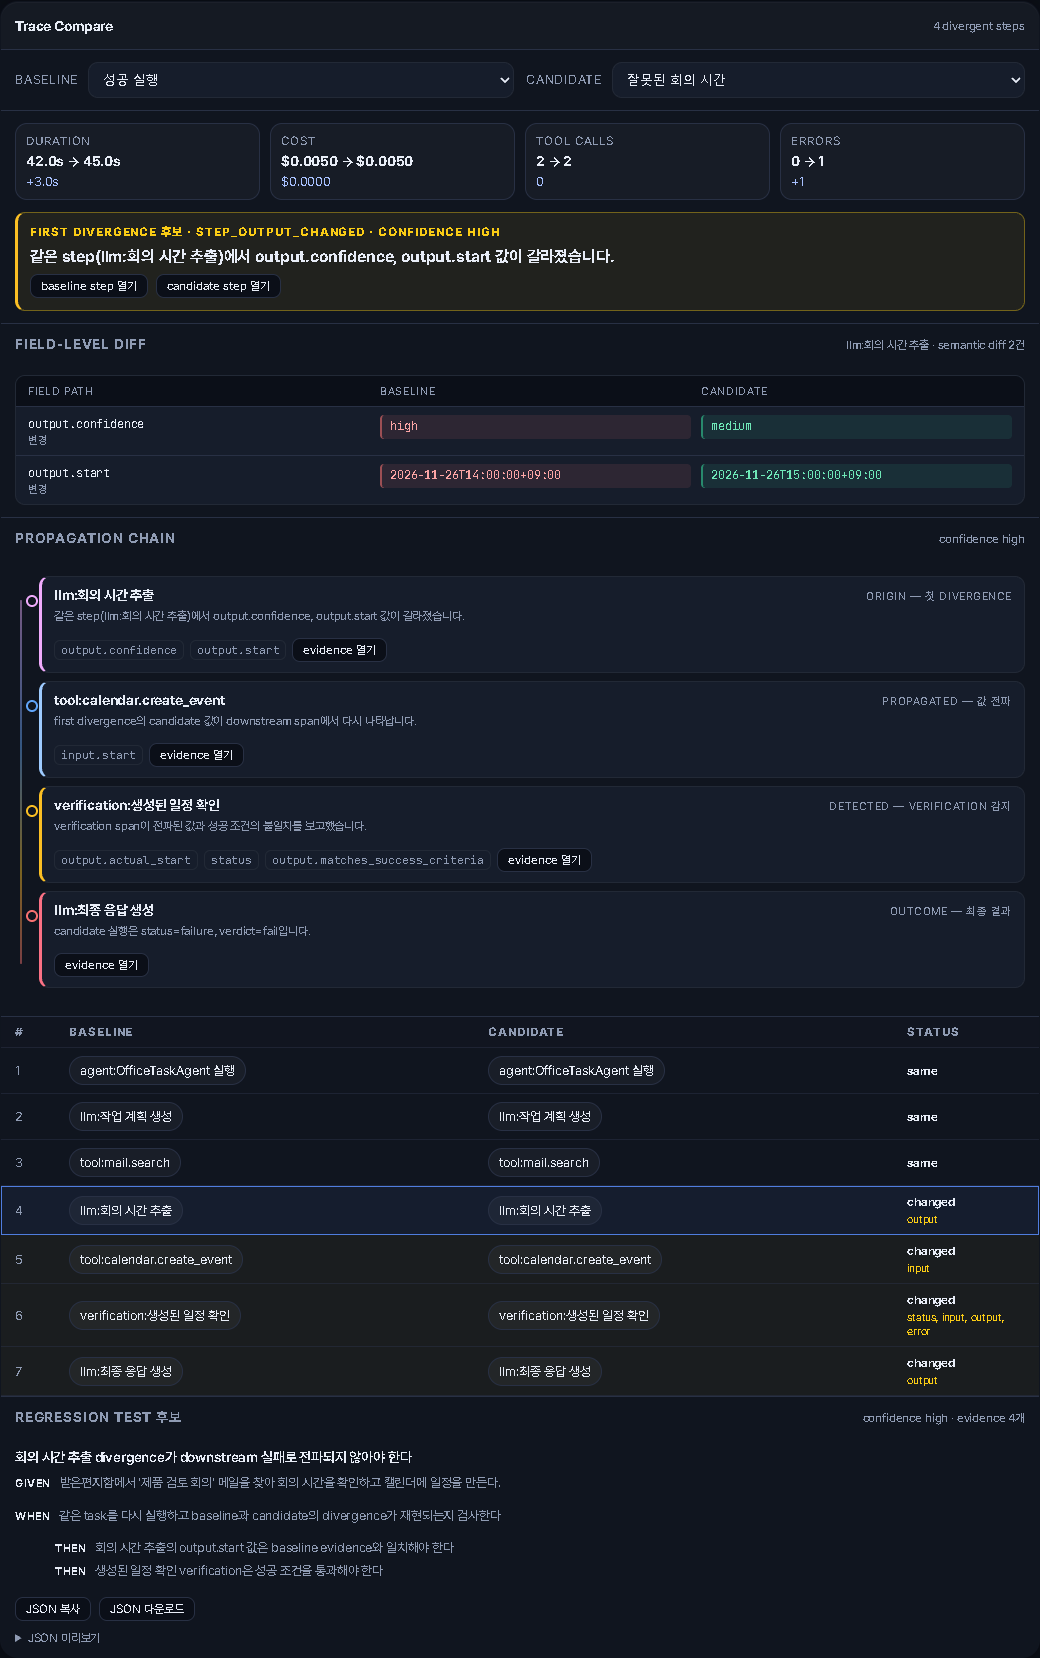
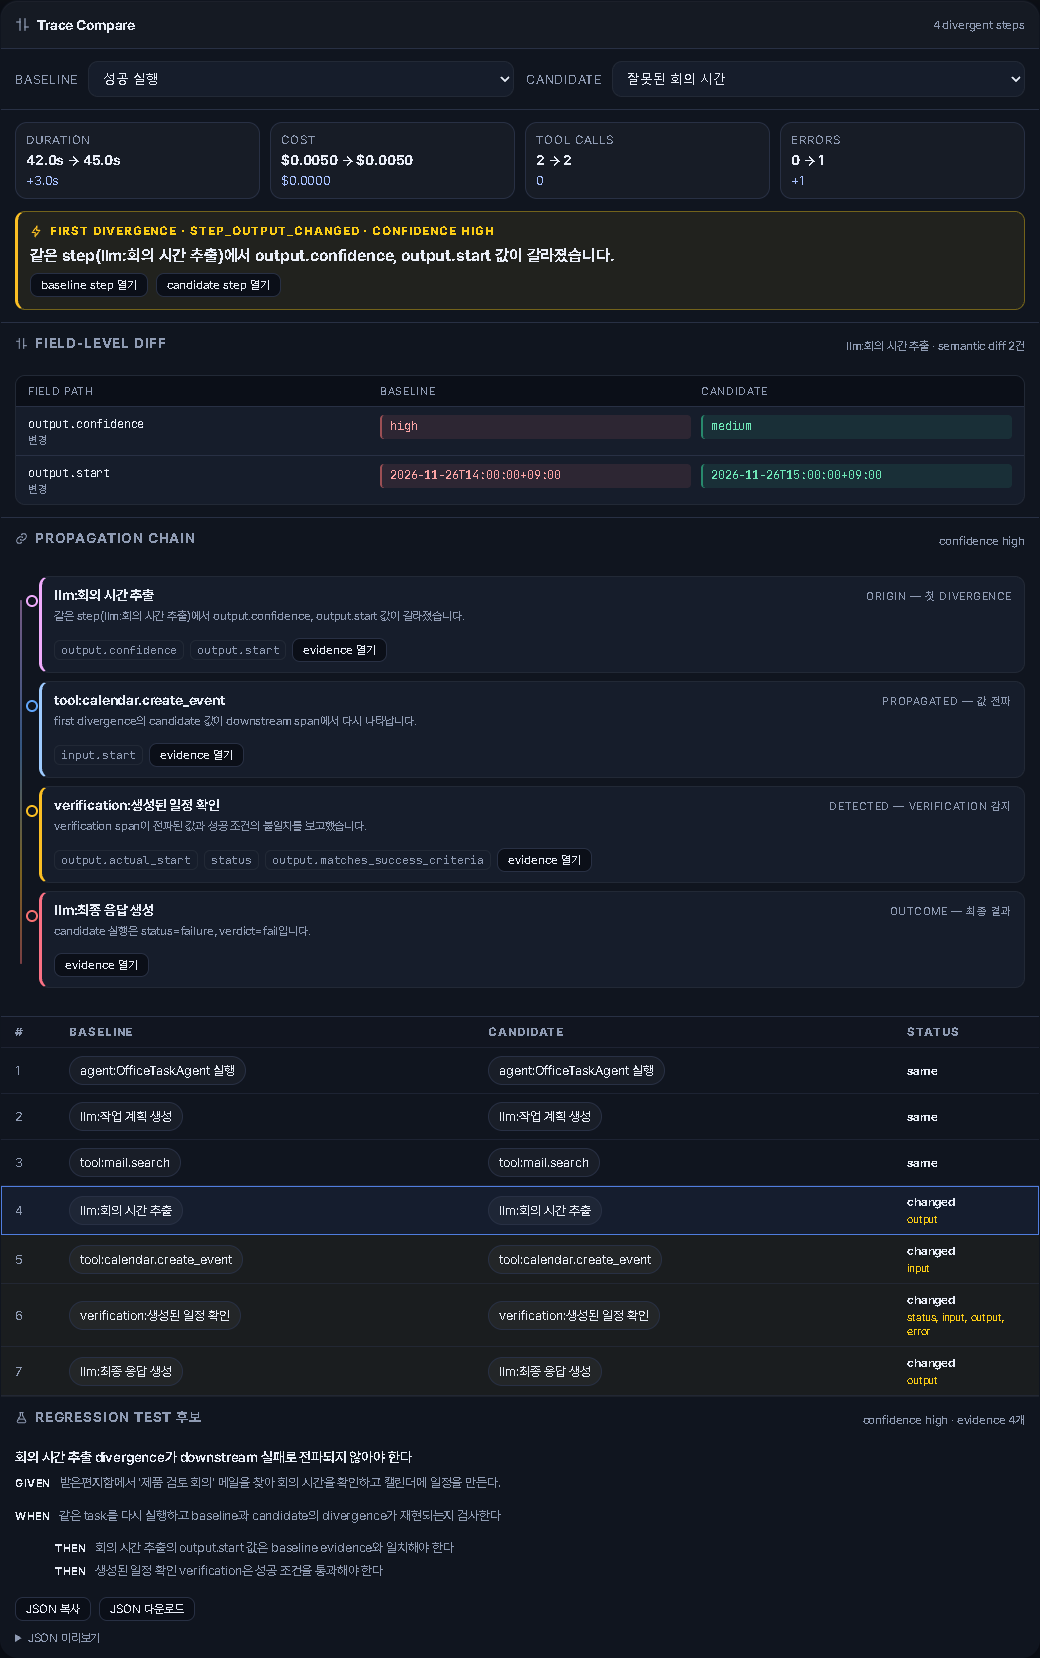
Apply brand identity and mockup-driven visual polish
Brand:
- Add AgentMRI logo (pulse-scan mark) as SVG brand mark in sidebar,
  favicon, and README header

Mockup implementation:
- Stroke icon set (pulse/layers/wrench/alert/clock/coin/shield/bolt/
  diff/chain/flask) applied to metric strip and section headers
- Verdict Audit panel gets tone-colored border glow matching the audit
  result, making the verdict visually dominant
- Evidence chips become pill-shaped with tone dots
- Divergence card gains bolt icon and tighter hierarchy

README screenshots recaptured with the updated UI.

Generated with [Devin](https://devin.ai)

diff --git a/components/icons.tsx b/components/icons.tsx
@@ -1,0 +1,121 @@
+interface IconProps {
+  size?: number;
+  className?: string;
+}
+
+function base(props: IconProps) {
+  return {
+    width: props.size ?? 16,
+    height: props.size ?? 16,
+    viewBox: '0 0 24 24',
+    fill: 'none',
+    stroke: 'currentColor',
+    strokeWidth: 2,
+    strokeLinecap: 'round' as const,
+    strokeLinejoin: 'round' as const,
+    className: props.className,
+    'aria-hidden': true
+  };
+}
+
+export function IconPulse(props: IconProps) {
+  return (
+    <svg {...base(props)}>
+      <circle cx="12" cy="12" r="9" />
+      <path d="M7 12h3l2-4 3 8 2-4h2" />
+    </svg>
+  );
+}
+
+export function IconLayers(props: IconProps) {
+  return (
+    <svg {...base(props)}>
+      <path d="M12 3 3 8l9 5 9-5-9-5Z" />
+      <path d="m3 13 9 5 9-5" />
+    </svg>
+  );
+}
+
+export function IconWrench(props: IconProps) {
+  return (
+    <svg {...base(props)}>
+      <path d="M14.5 6.5a4 4 0 0 0-5.6 5.1L4 16.5V20h3.5l4.9-4.9a4 4 0 0 0 5.1-5.6l-2.8 2.8-2.4-2.4 2.8-2.8Z" />
+    </svg>
+  );
+}
+
+export function IconAlert(props: IconProps) {
+  return (
+    <svg {...base(props)}>
+      <circle cx="12" cy="12" r="9" />
+      <path d="M12 7v6" />
+      <circle cx="12" cy="16.5" r="0.5" fill="currentColor" />
+    </svg>
+  );
+}
+
+export function IconClock(props: IconProps) {
+  return (
+    <svg {...base(props)}>
+      <circle cx="12" cy="12" r="9" />
+      <path d="M12 7v5l3.5 2" />
+    </svg>
+  );
+}
+
+export function IconCoin(props: IconProps) {
+  return (
+    <svg {...base(props)}>
+      <ellipse cx="12" cy="6" rx="8" ry="3" />
+      <path d="M4 6v6c0 1.7 3.6 3 8 3s8-1.3 8-3V6" />
+      <path d="M4 12v6c0 1.7 3.6 3 8 3s8-1.3 8-3v-6" />
+    </svg>
+  );
+}
+
+export function IconShield(props: IconProps) {
+  return (
+    <svg {...base(props)}>
+      <path d="M12 3 5 6v5c0 4.5 3 8.2 7 10 4-1.8 7-5.5 7-10V6l-7-3Z" />
+      <path d="m9 12 2 2 4-4" />
+    </svg>
+  );
+}
+
+export function IconBolt(props: IconProps) {
+  return (
+    <svg {...base(props)}>
+      <path d="M13 2 4 14h6l-1 8 9-12h-6l1-8Z" />
+    </svg>
+  );
+}
+
+export function IconDiff(props: IconProps) {
+  return (
+    <svg {...base(props)}>
+      <path d="M8 3v18" />
+      <path d="M16 3v18" />
+      <path d="M3 8h5" />
+      <path d="M16 16h5" />
+    </svg>
+  );
+}
+
+export function IconChain(props: IconProps) {
+  return (
+    <svg {...base(props)}>
+      <path d="M10 14a5 5 0 0 0 7 0l3-3a5 5 0 0 0-7-7l-1.5 1.5" />
+      <path d="M14 10a5 5 0 0 0-7 0l-3 3a5 5 0 0 0 7 7l1.5-1.5" />
+    </svg>
+  );
+}
+
+export function IconFlask(props: IconProps) {
+  return (
+    <svg {...base(props)}>
+      <path d="M9 3h6" />
+      <path d="M10 3v5.5L4.5 18a2.5 2.5 0 0 0 2.2 3.7h10.6a2.5 2.5 0 0 0 2.2-3.7L14 8.5V3" />
+      <path d="M7.5 15h9" />
+    </svg>
+  );
+}

diff --git a/components/TraceCompare.tsx b/components/TraceCompare.tsx
@@ -2,6 +2,7 @@
 
 import { useMemo, useState } from 'react';
 import { compareTraces, type ComparisonRow, type ComparisonRowStatus } from '@/lib/compare';
+import { IconBolt, IconChain, IconDiff, IconFlask } from './icons';
 import { semanticDifferences, type FieldDifference } from '@/lib/compare/diff';
 import { buildRegressionCandidate } from '@/lib/regression';
 import type { CanonicalTrace } from '@/lib/types';
@@ -133,7 +134,7 @@ export default function TraceCompare({
   return (
     <section className="compare-panel panel" aria-label="Trace compare">
       <div className="panel-header">
-        <h2>Trace Compare</h2>
+        <h2><IconDiff size={15} /> Trace Compare</h2>
         <span>{changedCount} divergent steps</span>
       </div>
 
@@ -194,7 +195,7 @@ export default function TraceCompare({
       {comparison.first_divergence ? (
         <div className={`divergence-card ${comparison.first_divergence.status}`}>
           <span>
-            first divergence 후보 · {comparison.first_divergence.type} · confidence {comparison.first_divergence.confidence}
+            <IconBolt size={13} /> first divergence · {comparison.first_divergence.type} · confidence {comparison.first_divergence.confidence}
           </span>
           <strong>{comparison.first_divergence.summary}</strong>
           <div className="divergence-links">
@@ -212,7 +213,7 @@ export default function TraceCompare({
       {selectedDiffs.length > 0 ? (
         <div className="field-diff" aria-label="field diff viewer">
           <div className="field-diff-head">
-            <h3>field-level diff</h3>
+            <h3><IconDiff size={13} /> field-level diff</h3>
             <span>
               {selectedRow?.baseline_step_key ?? selectedRow?.candidate_step_key} · semantic diff {selectedDiffs.length}건
             </span>
@@ -241,7 +242,7 @@ export default function TraceCompare({
       {comparison.propagation_chain ? (
         <div className="propagation-chain" aria-label="propagation chain">
           <div className="field-diff-head">
-            <h3>propagation chain</h3>
+            <h3><IconChain size={13} /> propagation chain</h3>
             <span>confidence {comparison.propagation_chain.confidence}</span>
           </div>
           <ol>
@@ -294,7 +295,7 @@ export default function TraceCompare({
       {regression ? (
         <div className="regression-export" aria-label="regression export">
           <div className="field-diff-head">
-            <h3>regression test 후보</h3>
+            <h3><IconFlask size={13} /> regression test 후보</h3>
             <span>
               confidence {regression.confidence} · evidence {regression.evidence_span_ids.length}개
             </span>

diff --git a/app/globals.css b/app/globals.css
@@ -1724,3 +1724,106 @@ button:active {
 .app-layout .hero h1 {
   font-size: 1.35rem;
 }
+
+/* ============================================
+   UI Upgrade v3 — mockup implementation
+   tone borders, icon alignment, evidence pills
+   ============================================ */
+
+/* brand mark image replaces CSS shape */
+.brand-mark-img {
+  border-radius: 8px;
+  display: block;
+  flex-shrink: 0;
+}
+
+/* icons inside headings/labels align inline */
+.panel-header h2,
+.field-diff-head h3,
+.summary-card span,
+.divergence-card > span {
+  display: flex;
+  align-items: center;
+  gap: 7px;
+}
+.panel-header h2 svg,
+.field-diff-head h3 svg {
+  color: var(--muted);
+  flex-shrink: 0;
+}
+.summary-card span svg {
+  color: var(--muted);
+  flex-shrink: 0;
+}
+.divergence-card > span svg {
+  color: var(--suspect);
+  flex-shrink: 0;
+}
+
+/* verdict panel tone-colored border glow (mockup style) */
+.audit-report {
+  border-width: 1px;
+  border-style: solid;
+}
+.audit-report.tone-good {
+  border-color: rgba(52, 211, 153, 0.35);
+  box-shadow: 0 0 0 1px rgba(52, 211, 153, 0.08), 0 8px 32px rgba(52, 211, 153, 0.06);
+}
+.audit-report.tone-good .panel-header h2 {
+  color: var(--pass);
+}
+.audit-report.tone-good .panel-header h2 svg {
+  color: var(--pass);
+}
+.audit-report.tone-bad {
+  border-color: rgba(248, 113, 113, 0.35);
+  box-shadow: 0 0 0 1px rgba(248, 113, 113, 0.08), 0 8px 32px rgba(248, 113, 113, 0.06);
+}
+.audit-report.tone-bad .panel-header h2,
+.audit-report.tone-bad .panel-header h2 svg {
+  color: var(--fail);
+}
+.audit-report.tone-warning {
+  border-color: rgba(251, 191, 36, 0.35);
+  box-shadow: 0 0 0 1px rgba(251, 191, 36, 0.08), 0 8px 32px rgba(251, 191, 36, 0.06);
+}
+.audit-report.tone-warning .panel-header h2,
+.audit-report.tone-warning .panel-header h2 svg {
+  color: var(--suspect);
+}
+
+/* evidence chips as pills with tone dot (mockup style) */
+.evidence-links button {
+  display: inline-flex;
+  align-items: center;
+  gap: 7px;
+  border-radius: 999px;
+  padding: 5px 14px;
+  font-family: var(--font-mono);
+  font-size: 0.72rem;
+  background: var(--elevation-2);
+}
+.evidence-links button::before {
+  content: '';
+  width: 7px;
+  height: 7px;
+  border-radius: 50%;
+  background: var(--pass);
+  box-shadow: 0 0 5px rgba(52, 211, 153, 0.6);
+  flex-shrink: 0;
+}
+
+/* metric cards: icon row alignment fix */
+.summary-grid .summary-card span {
+  font-size: 0.62rem;
+}
+
+/* compare selectors: colored dot before label text */
+.compare-controls label {
+  position: relative;
+}
+
+/* regression export panel subtle border */
+.regression-export {
+  border-top: 1px solid rgba(255,255,255,0.05);
+}

diff --git a/components/TraceExplorer.tsx b/components/TraceExplorer.tsx
@@ -14,6 +14,7 @@ import { runDetectors } from '@/lib/detectors';
 import type { CanonicalTrace, ValidationIssue } from '@/lib/types';
 import { parseAndValidateTrace } from '@/lib/validate';
 import AuditReport from './AuditReport';
+import { IconAlert, IconClock, IconCoin, IconLayers, IconPulse, IconWrench } from './icons';
 import FindingsPanel from './FindingsPanel';
 import SpanDetail from './SpanDetail';
 import SpanTree from './SpanTree';
@@ -151,7 +152,7 @@ export default function TraceExplorer() {
     <div className="app-layout">
     <aside className="sidebar">
       <div className="sidebar-brand">
-        <span className="brand-mark" aria-hidden="true" />
+        <img src="/brand-mark.svg" alt="" className="brand-mark-img" width={28} height={28} />
         <div>
           <strong>AgentMRI</strong>
           <small>trace audit MVP</small>
@@ -228,27 +229,27 @@ export default function TraceExplorer() {
 
       <section className="summary-grid" aria-label="Trace summary">
         <div className="summary-card">
-          <span>status</span>
+          <span><IconPulse size={13} /> status</span>
           <strong>{trace.status ?? 'unknown'}</strong>
         </div>
         <div className="summary-card">
-          <span>spans</span>
+          <span><IconLayers size={13} /> spans</span>
           <strong>{trace.spans.length}</strong>
         </div>
         <div className="summary-card">
-          <span>tool calls</span>
+          <span><IconWrench size={13} /> tool calls</span>
           <strong>{toolCount}</strong>
         </div>
         <div className="summary-card">
-          <span>errors</span>
+          <span><IconAlert size={13} /> errors</span>
           <strong>{errorCount}</strong>
         </div>
         <div className="summary-card">
-          <span>duration</span>
+          <span><IconClock size={13} /> duration</span>
           <strong>{formatDuration(trace.started_at, trace.ended_at)}</strong>
         </div>
         <div className="summary-card">
-          <span>cost</span>
+          <span><IconCoin size={13} /> cost</span>
           <strong>{formatCost(trace)}</strong>
         </div>
       </section>

diff --git a/components/AuditReport.tsx b/components/AuditReport.tsx
@@ -1,4 +1,5 @@
 import type { AuditedVerdict, VerdictAuditResult } from '@/lib/audit';
+import { IconShield } from './icons';
 import type { FailureCategory } from '@/lib/types';
 
 interface AuditReportProps {
@@ -40,7 +41,7 @@ export default function AuditReport({ audit, onSelectSpan }: AuditReportProps) {
   return (
     <section className={`panel audit-report tone-${tone}`} aria-label="Verdict audit report">
       <div className="panel-header">
-        <h2>Verdict Audit</h2>
+        <h2><IconShield size={15} /> Verdict Audit</h2>
         <span>evidence {audit.evidence_validation.evidence_count}개 확인</span>
       </div>
 

diff --git a/README.md b/README.md
@@ -1,3 +1,7 @@
+<p align="center">
+  <img src="docs/brand-logo.png" alt="AgentMRI" width="420" />
+</p>
+
 # AgentMRI
 
 AI 에이전트의 실행 로그와 평가 결과를 입력받아 실패 원인, 채점 오류, 회귀 테스트 후보를 evidence 기반으로 도출하는 메타-평가 도구다.
